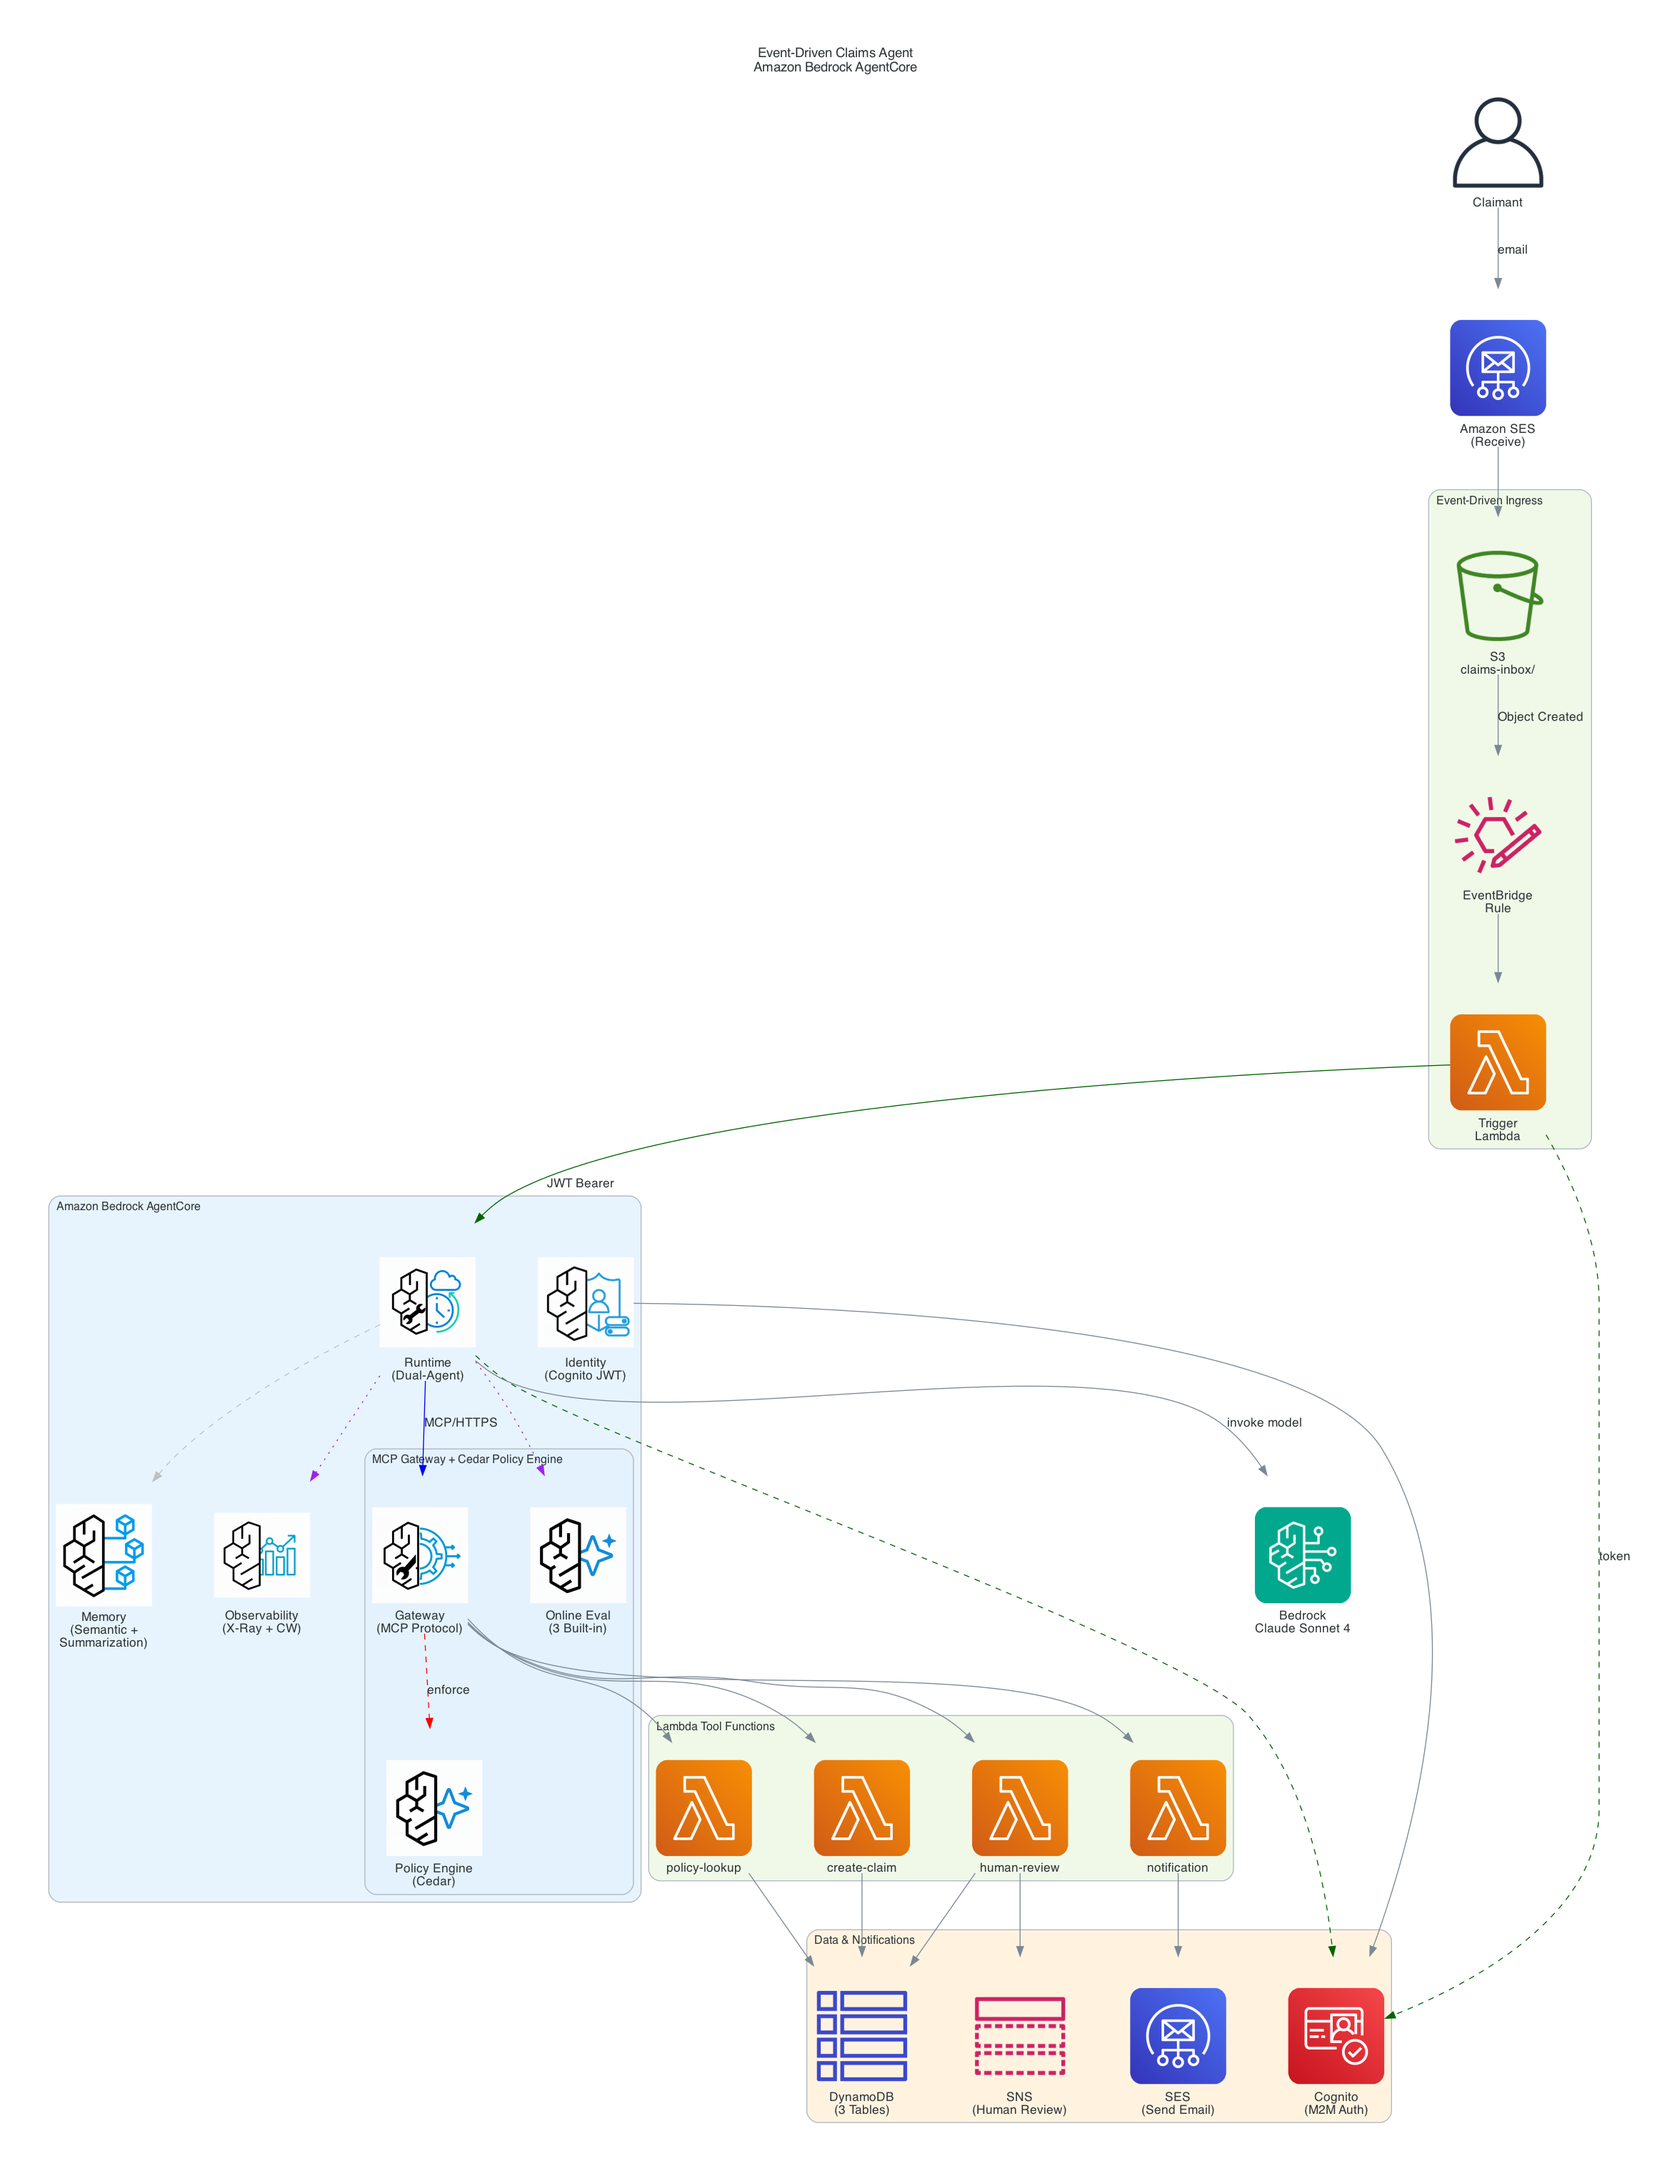
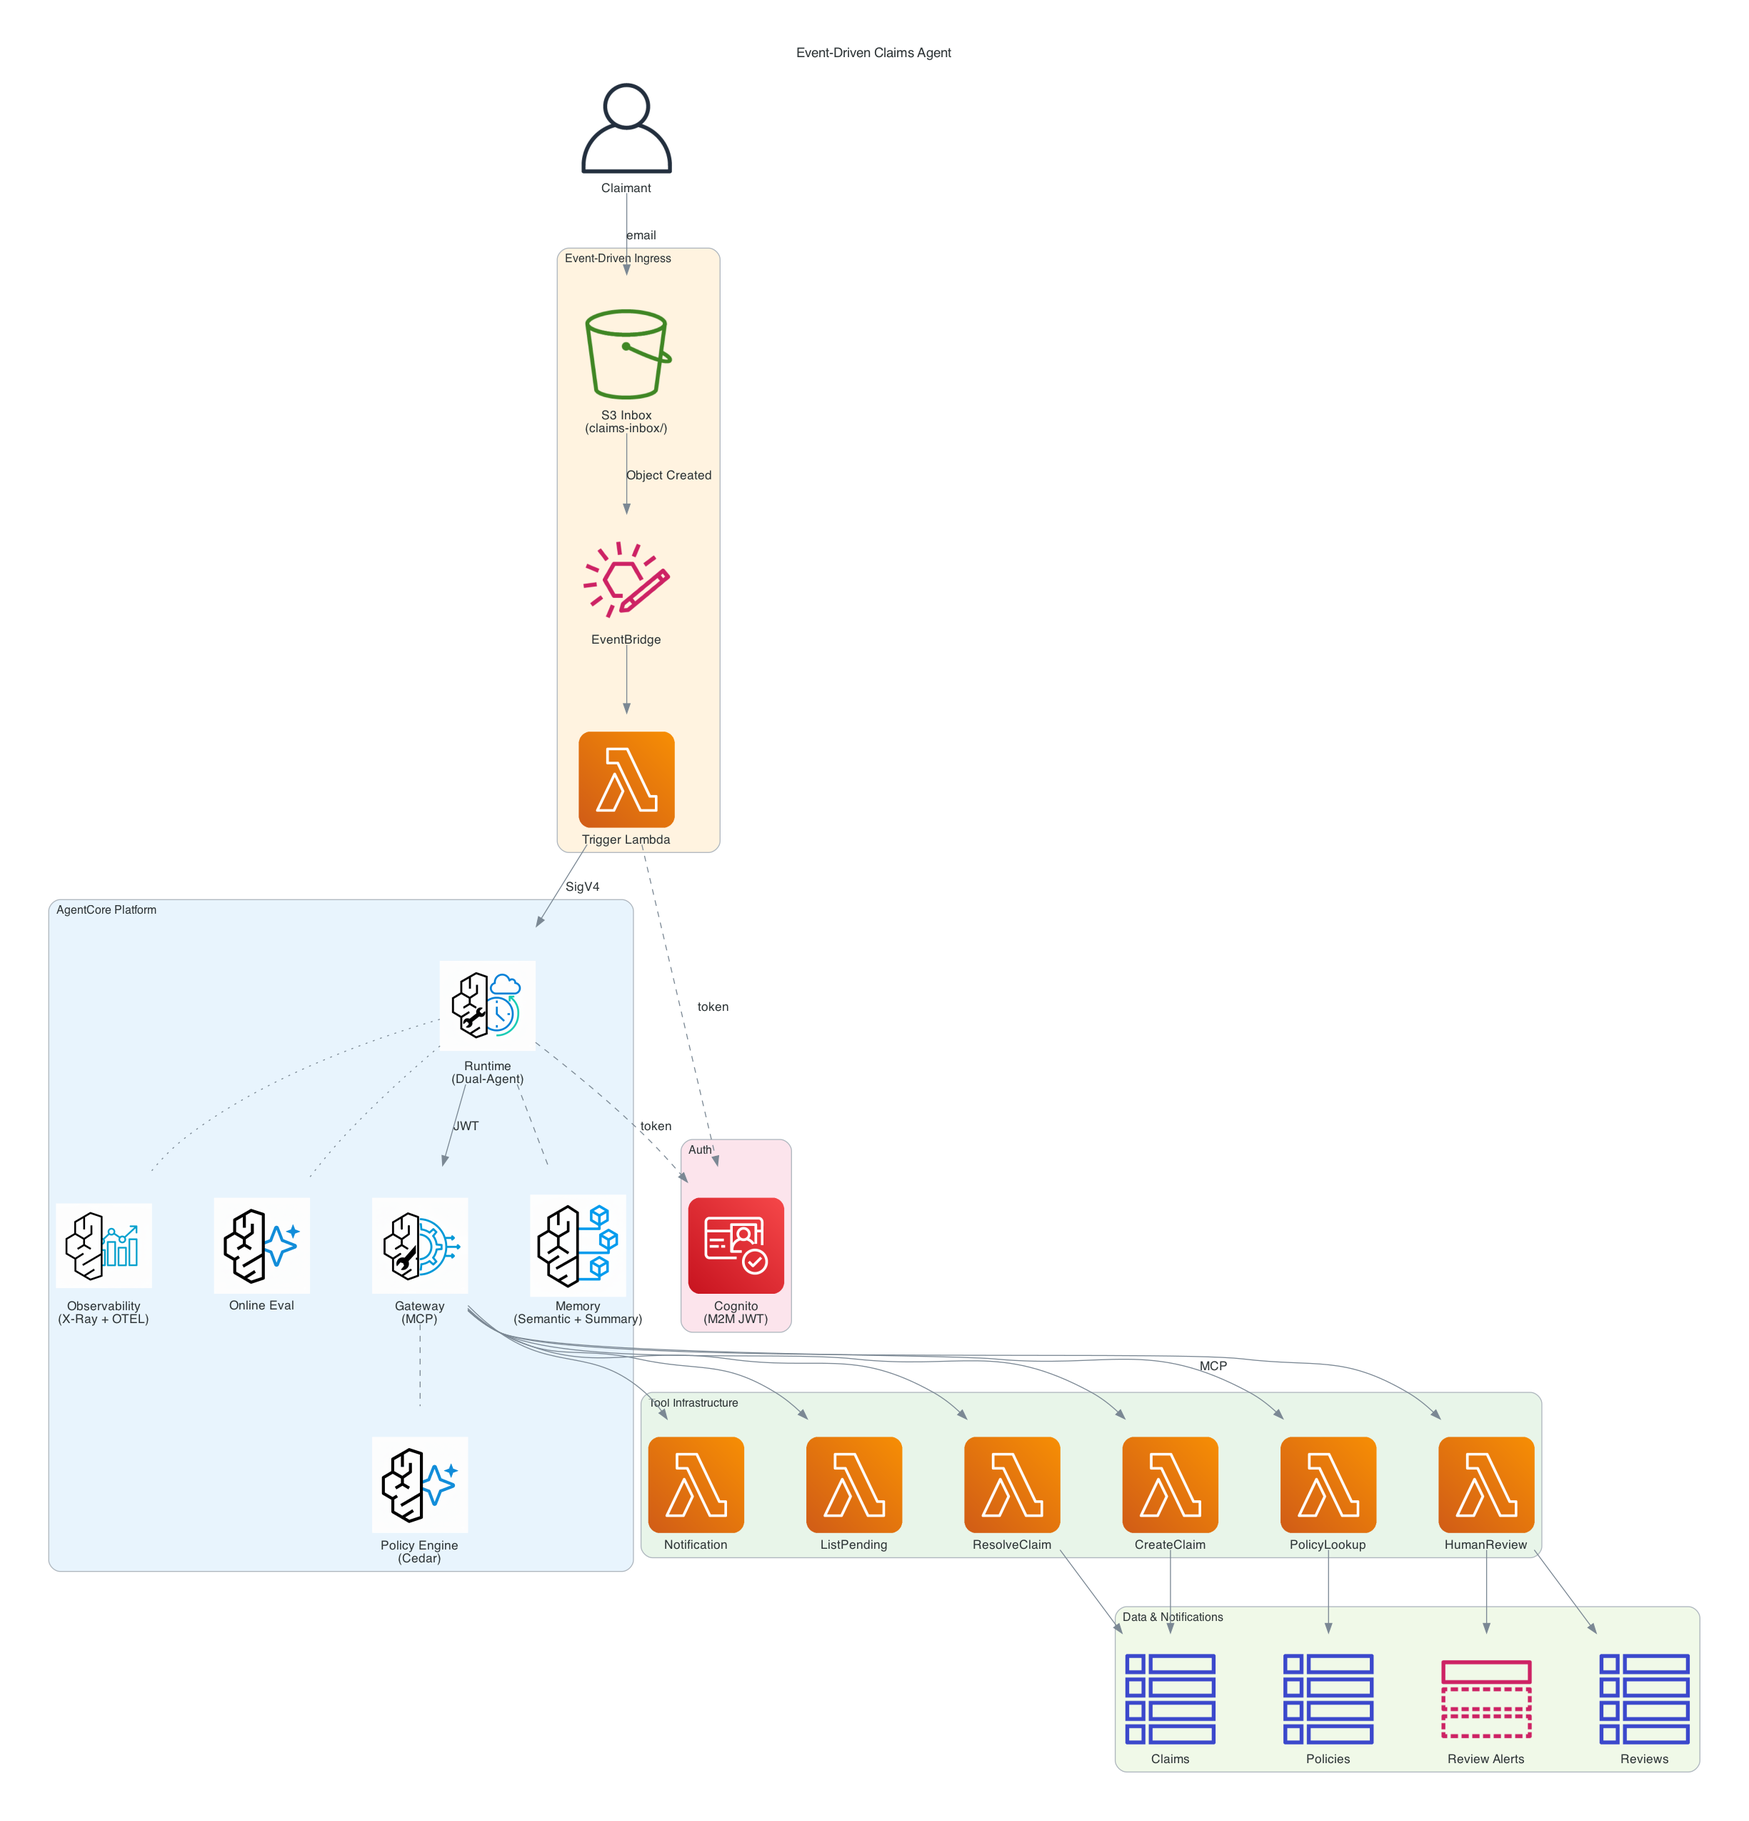
docs: regenerate architecture diagrams and fix Runtime auth description

diff --git a/02-use-cases/02-workflow-automation-agents/event-driven-claims-agent/docs/ARCHITECTURE.md b/02-use-cases/02-workflow-automation-agents/event-driven-claims-agent/docs/ARCHITECTURE.md
@@ -35,7 +35,8 @@ This document explains:
 
 - **Build type:** Container (ARM64/Graviton, Python 3.12)
 - **Framework:** Strands Agents SDK
-- **Auth:** Cognito JWT (`CUSTOM_JWT` authorizer) — callers must present a valid M2M token
+- **Auth (inbound):** AWS_IAM (SigV4) — callers sign requests with AWS credentials
+- **Auth (outbound to Gateway):** Cognito M2M JWT (`client_credentials` flow)
 - **Entrypoint:** `app/claimsagent/main.py`
 - **Agents:** Two `Agent` instances (Claims Processor, Validation Agent), lazily initialized as module-level singletons
 - **Model:** `global.anthropic.claude-sonnet-4-6` (cross-region inference profile)
